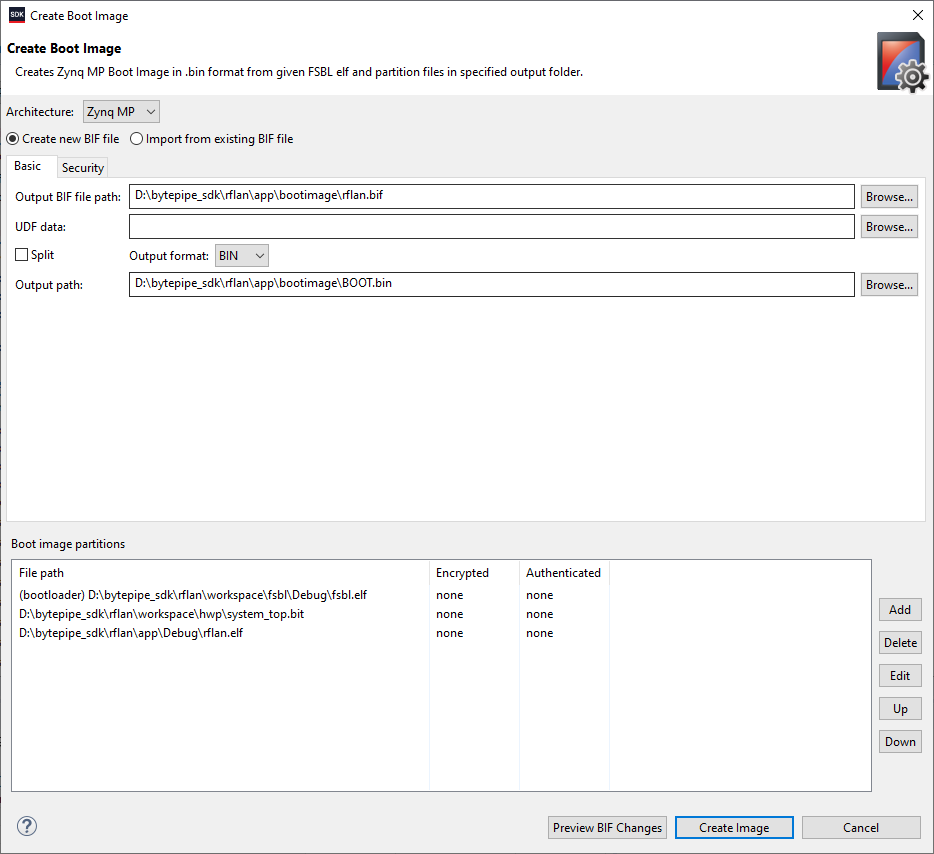
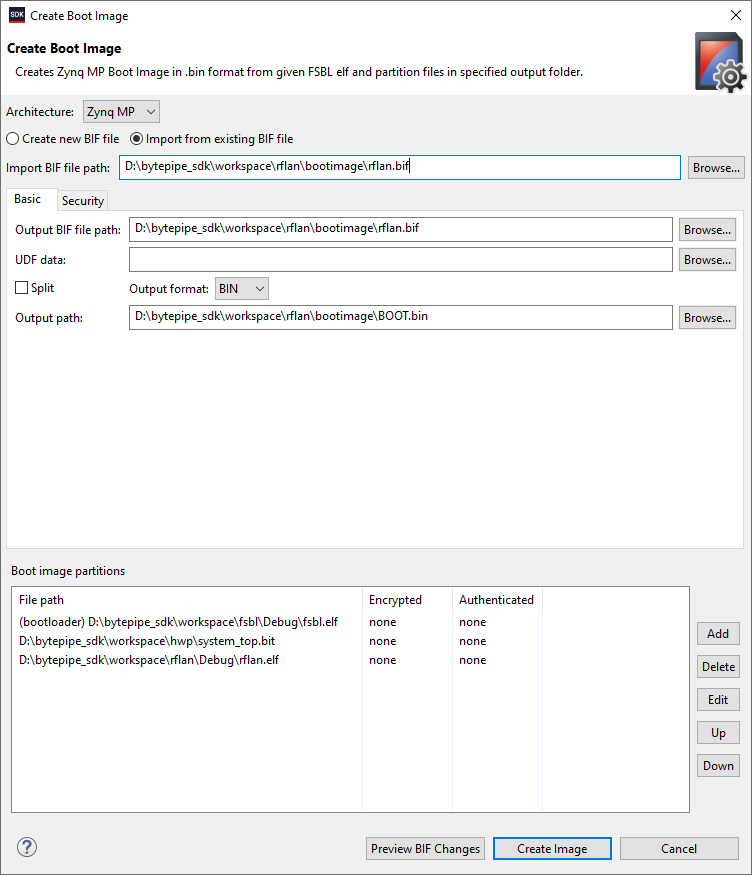
updating docs

diff --git a/docs/RflanBuild/RflanBuild.md b/docs/RflanBuild/RflanBuild.md
@@ -127,9 +127,20 @@ Next navigate to file->new->application.  Create a new application called fsbl a
 
 # Create Boot Image
 
-Select the `rflan` project in the project explorer.  Navigate to Xilinx->Create Boot Image.  This should automatically import the appropriate files as shown below.  If not, exit and make sure the `rflan` project is highlighted in the project explorer before trying again.  Select create image, this will generate a BOOT.bin under the `rflan` folder which can be loaded onto the device for testing.
+To create a boot image start by right clicking on the `rflan` project and select `Create Boot Image` as shown below.  
+
+![boot_00](boot_00.png)
+
+Three files are needed to create the boot image, first stage boot loader (FSBL), programmable logic bit string, and the rflan application.  These are shown below along with the settings for each.  Once the files are setup select `Create Image`.  This will create a file named `BOOT.BIN` which can be copied to the SD card or eMMC for booting.
 
 ![boot_01](boot_01.png)
+
+![boot_02](boot_02.png)
+
+![boot_03](boot_03.png)
+
+![boot_04](boot_04.png)
+
 
 # Debugging
 
